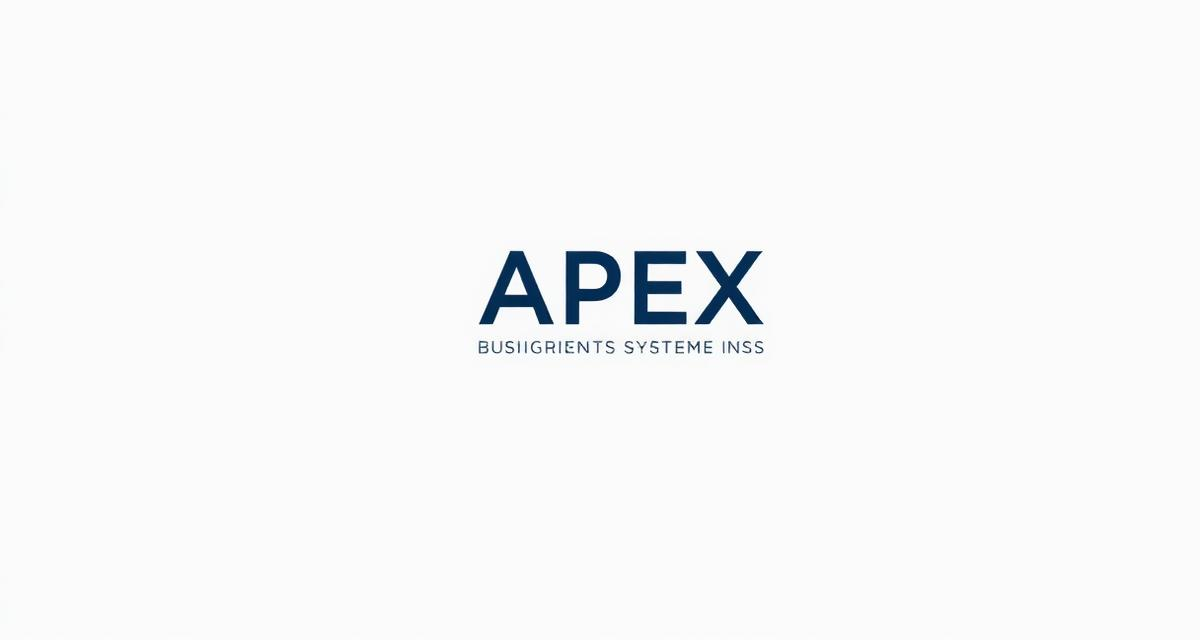
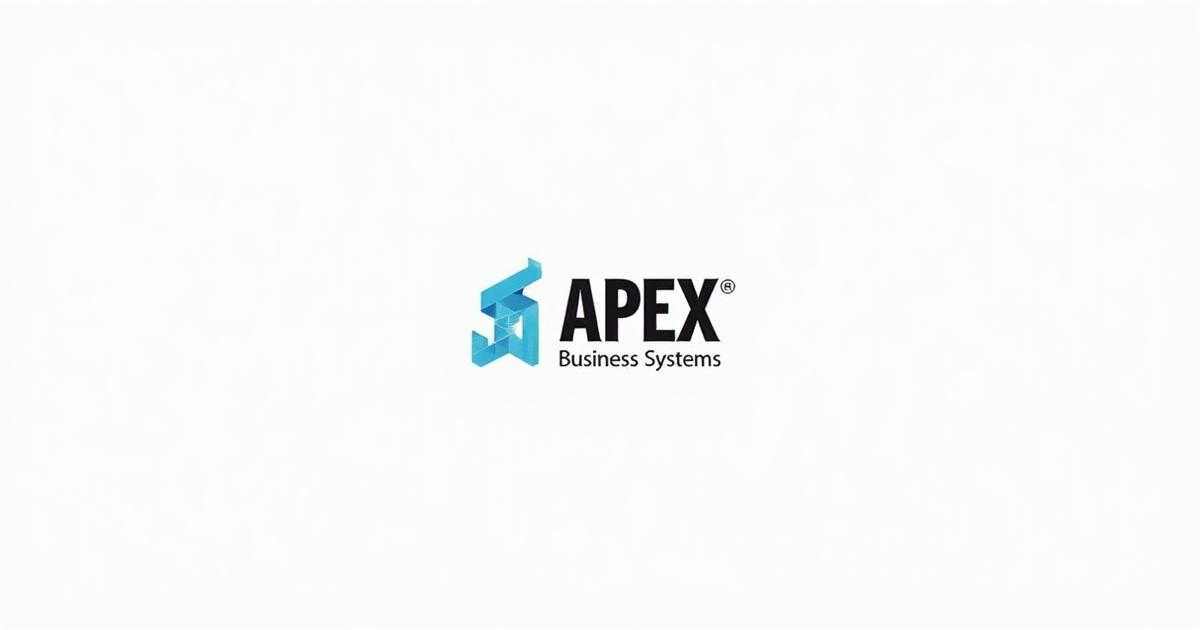
Update landing page branding

Changed region(s): [[0.37, 0.3921, 0.6475, 0.6032]]

diff --git a/src/pages/Index.tsx b/src/pages/Index.tsx
@@ -1,8 +1,8 @@
 import { useEffect } from 'react';
 import { useNavigate } from 'react-router-dom';
 import { Button } from '@/components/ui/button';
-import { Check } from 'lucide-react';
 import { Header } from '@/components/Header';
+import tradeline247 from '@/assets/app_tradeline247.svg';
 
 const Index = () => {
   const navigate = useNavigate();
@@ -18,29 +18,21 @@ const Index = () => {
     return () => window.removeEventListener('keydown', handleKeyPress);
   }, [navigate]);
 
-  useEffect(() => {
-    // Load Google Identity Services SDK
-    const script = document.createElement('script');
-    script.src = 'https://accounts.google.com/gsi/client';
-    script.async = true;
-    script.defer = true;
-    document.body.appendChild(script);
+  const scrollToApps = () => {
+    document.getElementById('apps-grid')?.scrollIntoView({ behavior: 'smooth' });
+  };
 
-    return () => {
-      document.body.removeChild(script);
-    };
-  }, []);
-
-  // Placeholder images for the grid
-  const gridImages = Array.from({ length: 9 }, (_, i) => ({
-    id: i + 1,
-    alt: `Profile picture example ${i + 1}`
-  }));
-
-  const trainingImages = Array.from({ length: 3 }, (_, i) => ({
-    id: i + 1,
-    alt: `Training image ${i + 1}`
-  }));
+  const apps = [
+    { name: 'TradeLine 24/7', icon: tradeline247, alt: 'TradeLine 24/7 app icon' },
+    { name: 'WhatsApp Hub', icon: null, alt: 'WhatsApp Hub app icon' },
+    { name: 'Gmail Bridge', icon: null, alt: 'Gmail Bridge app icon' },
+    { name: 'IONOS Mail', icon: null, alt: 'IONOS Mail app icon' },
+    { name: 'Google Dev Console', icon: null, alt: 'Google Dev Console app icon' },
+    { name: 'Apple Dev Connect', icon: null, alt: 'Apple Dev Connect app icon' },
+    { name: 'Coming Soon', icon: null, alt: 'Coming Soon' },
+    { name: 'Coming Soon', icon: null, alt: 'Coming Soon' },
+    { name: 'Coming Soon', icon: null, alt: 'Coming Soon' },
+  ];
 
   return (
     <div className="min-h-screen bg-background">
@@ -59,168 +51,113 @@ const Index = () => {
               </p>
 
               {/* H1 */}
-              <h1 className="text-4xl md:text-5xl lg:text-6xl font-bold leading-tight text-[hsl(var(--ink))]">
-                Create your perfect{' '}
-                <span className="text-[hsl(var(--orange))]">profile picture</span>{' '}
-                with AI.
+              <h1 className="text-4xl md:text-5xl lg:text-6xl font-bold leading-tight text-[hsl(var(--navy))]">
+                APEX Business Systems, Apps for Life!
               </h1>
 
               {/* Support Copy */}
               <p className="text-lg text-muted-foreground">
-                Transform your photos into professional profile pictures with AI technology. 
-                Upload your photos and get stunning results in minutes.
+                Unified tools for work and life.
               </p>
 
-              {/* Benefits List */}
-              <ul className="space-y-3">
-                {[
-                  'Professional quality in minutes',
-                  'Multiple styles to choose from',
-                  'Secure and private processing'
-                ].map((benefit, index) => (
-                  <li key={index} className="flex items-start gap-3">
-                    <Check className="h-5 w-5 text-[hsl(var(--orange))] mt-0.5 flex-shrink-0" />
-                    <span className="text-[hsl(var(--ink))]">{benefit}</span>
-                  </li>
-                ))}
-              </ul>
-
-              {/* CTAs */}
-              <div className="space-y-4 pt-2">
+              {/* CTA */}
+              <div className="pt-2">
                 <Button 
                   size="lg" 
+                  onClick={scrollToApps}
                   className="w-full md:w-auto bg-[hsl(var(--navy))] hover:bg-[hsl(var(--navy-600))] text-white px-8"
                 >
-                  Get Started
+                  Explore Apps
                 </Button>
-
-                {/* Google Sign-in Button */}
-                <div className="w-full md:w-auto">
-                  <div 
-                    id="g_id_onload"
-                    data-client_id="YOUR_GOOGLE_CLIENT_ID"
-                    data-context="signin"
-                    data-ux_mode="popup"
-                    data-auto_prompt="false"
-                  ></div>
-                  <div 
-                    className="g_id_signin"
-                    data-type="standard"
-                    data-shape="rectangular"
-                    data-theme="outline"
-                    data-text="signin_with"
-                    data-size="large"
-                    data-logo_alignment="left"
-                    data-width="250"
-                  ></div>
-                </div>
-              </div>
-
-              {/* Social Proof Row */}
-              <div className="flex flex-col sm:flex-row sm:items-center gap-4 pt-2 border-t border-border">
-                <p className="text-sm text-muted-foreground">
-                  One-time payment. No subscription.
-                </p>
-                <div className="sm:ml-auto">
-                  <a 
-                    href="https://www.producthunt.com" 
-                    target="_blank" 
-                    rel="noopener noreferrer"
-                    className="inline-block"
-                  >
-                    <img 
-                      src="https://api.producthunt.com/widgets/embed-image/v1/featured.svg?post_id=YOUR_POST_ID&theme=light" 
-                      alt="Product Hunt"
-                      width="250"
-                      height="54"
-                      loading="lazy"
-                    />
-                  </a>
-                </div>
               </div>
             </div>
 
-            {/* Right Column - Visual Collage */}
+            {/* Right Column - App Icon Grid */}
             <div className="relative">
-              <div className="relative max-w-[500px] mx-auto">
-                {/* Training Set Overlay - Top Left */}
-                <div className="absolute -top-8 -left-8 z-10 bg-white p-3 rounded-lg shadow-lg border border-border">
-                  <div className="flex gap-2 mb-2">
-                    {trainingImages.map((img) => (
-                      <div 
-                        key={img.id}
-                        className="w-12 h-12 rounded bg-muted flex items-center justify-center text-xs text-muted-foreground"
-                      >
-                        {img.id}
-                      </div>
-                    ))}
+              <div className="grid grid-cols-2 sm:grid-cols-3 gap-4 max-w-[500px] mx-auto">
+                {apps.map((app, index) => (
+                  <div
+                    key={index}
+                    role="group"
+                    aria-label={`${app.name} tile`}
+                    className={`aspect-square rounded-xl p-4 flex flex-col items-center justify-center text-center transition-transform hover:scale-105 ${
+                      app.icon 
+                        ? 'bg-white border-2 border-[hsl(var(--navy))] shadow-lg' 
+                        : 'bg-white border-2 border-dashed border-muted-foreground/30'
+                    }`}
+                  >
+                    {app.icon ? (
+                      <>
+                        <img 
+                          src={app.icon} 
+                          alt={app.alt}
+                          className="w-16 h-16 md:w-20 md:h-20 mb-2"
+                        />
+                        <span className="text-xs md:text-sm font-medium text-[hsl(var(--navy))]">
+                          {app.name}
+                        </span>
+                      </>
+                    ) : (
+                      <span className="text-xs md:text-sm text-muted-foreground">
+                        {app.name}
+                      </span>
+                    )}
                   </div>
-                  <p className="text-xs text-[hsl(var(--ink))]">Training set</p>
-                  {/* Arrow pointing to main grid */}
-                  <svg 
-                    className="absolute -right-6 top-1/2 -translate-y-1/2 w-8 h-8" 
-                    viewBox="0 0 32 32" 
-                    fill="none"
-                  >
-                    <path 
-                      d="M4 16 C 8 8, 12 24, 20 16" 
-                      stroke="hsl(var(--orange))" 
-                      strokeWidth="2" 
-                      fill="none"
-                      strokeLinecap="round"
-                    />
-                    <path 
-                      d="M20 16 L 16 14 M 20 16 L 16 18" 
-                      stroke="hsl(var(--orange))" 
-                      strokeWidth="2" 
-                      strokeLinecap="round"
-                    />
-                  </svg>
-                </div>
-
-                {/* Main 3x3 Grid */}
-                <div className="grid grid-cols-3 gap-3 rounded-xl overflow-hidden shadow-xl border border-border bg-white p-3">
-                  {gridImages.map((img) => (
-                    <div 
-                      key={img.id}
-                      className="aspect-square rounded-lg bg-gradient-to-br from-muted to-muted/50 flex items-center justify-center text-muted-foreground hover:scale-105 transition-transform"
-                    >
-                      <span className="text-2xl font-bold">{img.id}</span>
-                    </div>
-                  ))}
-                </div>
-
-                {/* Bottom Right Caption */}
-                <div className="absolute -bottom-8 -right-8 bg-white p-4 rounded-lg shadow-lg border border-border max-w-[180px]">
-                  <p className="text-sm font-medium text-[hsl(var(--ink))]">
-                    Turn yourself into anything you want
-                  </p>
-                  {/* Curved arrow pointing back to grid */}
-                  <svg 
-                    className="absolute -left-6 top-0 w-8 h-8" 
-                    viewBox="0 0 32 32" 
-                    fill="none"
-                  >
-                    <path 
-                      d="M4 8 C 8 8, 12 -4, 20 8" 
-                      stroke="hsl(var(--orange))" 
-                      strokeWidth="2" 
-                      fill="none"
-                      strokeLinecap="round"
-                    />
-                    <path 
-                      d="M20 8 L 18 4 M 20 8 L 16 8" 
-                      stroke="hsl(var(--orange))" 
-                      strokeWidth="2" 
-                      strokeLinecap="round"
-                    />
-                  </svg>
-                </div>
+                ))}
               </div>
             </div>
           </div>
         </div>
       </section>
+
+      {/* Apps Grid Section */}
+      <section id="apps-grid" className="px-4 py-16 md:py-20 bg-muted/20">
+        <div className="max-w-7xl mx-auto">
+          <h2 className="text-3xl md:text-4xl font-bold text-center text-[hsl(var(--navy))] mb-12">
+            Our Applications
+          </h2>
+          <div className="grid grid-cols-2 md:grid-cols-3 lg:grid-cols-3 gap-6 max-w-4xl mx-auto">
+            {apps.map((app, index) => (
+              <div
+                key={index}
+                role="group"
+                aria-label={`${app.name} tile`}
+                className={`aspect-square rounded-xl p-6 flex flex-col items-center justify-center text-center transition-all hover:scale-105 ${
+                  app.icon 
+                    ? 'bg-white border-2 border-[hsl(var(--navy))] shadow-lg hover:shadow-xl' 
+                    : 'bg-white border-2 border-dashed border-muted-foreground/30'
+                }`}
+              >
+                {app.icon ? (
+                  <>
+                    <img 
+                      src={app.icon} 
+                      alt={app.alt}
+                      className="w-24 h-24 md:w-32 md:h-32 mb-3"
+                    />
+                    <span className="text-sm md:text-base font-semibold text-[hsl(var(--navy))]">
+                      {app.name}
+                    </span>
+                  </>
+                ) : (
+                  <span className="text-sm md:text-base text-muted-foreground font-medium">
+                    {app.name}
+                  </span>
+                )}
+              </div>
+            ))}
+          </div>
+        </div>
+      </section>
+
+      {/* Footer */}
+      <footer className="py-8 border-t">
+        <div className="max-w-7xl mx-auto px-4 text-center">
+          <p className="text-sm text-muted-foreground">
+            © APEX Business Systems
+          </p>
+        </div>
+      </footer>
     </div>
   );
 };

diff --git a/src/components/Header.tsx b/src/components/Header.tsx
@@ -1,13 +1,30 @@
 import { Link } from 'react-router-dom';
 import builtCanadianBadge from '@/assets/built_canadian_badge.svg';
 import apexEmblem from '@/assets/apex_emblem_logo.svg';
+
 export const Header = () => {
-  return <header className="fixed top-0 left-0 right-0 z-50 border-b bg-background/95 backdrop-blur supports-[backdrop-filter]:bg-background/60">
+  return (
+    <header className="fixed top-0 left-0 right-0 z-50 border-b bg-background/95 backdrop-blur supports-[backdrop-filter]:bg-background/60">
       <div className="container mx-auto px-4 h-14 flex items-center justify-between">
         {/* Left group */}
-        <div className="flex items-center gap-2">
-          <img src={builtCanadianBadge} alt="" aria-hidden="true" className="h-6 md:h-7 w-auto opacity-90 hover:opacity-100 transition-opacity" title="Built Canadian" />
-          
+        <div className="flex items-center gap-3">
+          <img 
+            src={builtCanadianBadge} 
+            alt="" 
+            aria-hidden="true" 
+            className="h-6 md:h-7 w-auto opacity-90 hover:opacity-100 transition-opacity" 
+            title="Built Canadian" 
+          />
+          <div className="flex items-center gap-2">
+            <img 
+              src={apexEmblem} 
+              alt="APEX Business Systems emblem" 
+              className="h-8 w-8" 
+            />
+            <span className="text-sm font-semibold text-[hsl(var(--navy))] hidden sm:inline">
+              APEX Business Systems
+            </span>
+          </div>
         </div>
 
         {/* Right group - empty for now, nav can go here */}
@@ -15,5 +32,6 @@ export const Header = () => {
           {/* Future nav items */}
         </div>
       </div>
-    </header>;
+    </header>
+  );
 };
